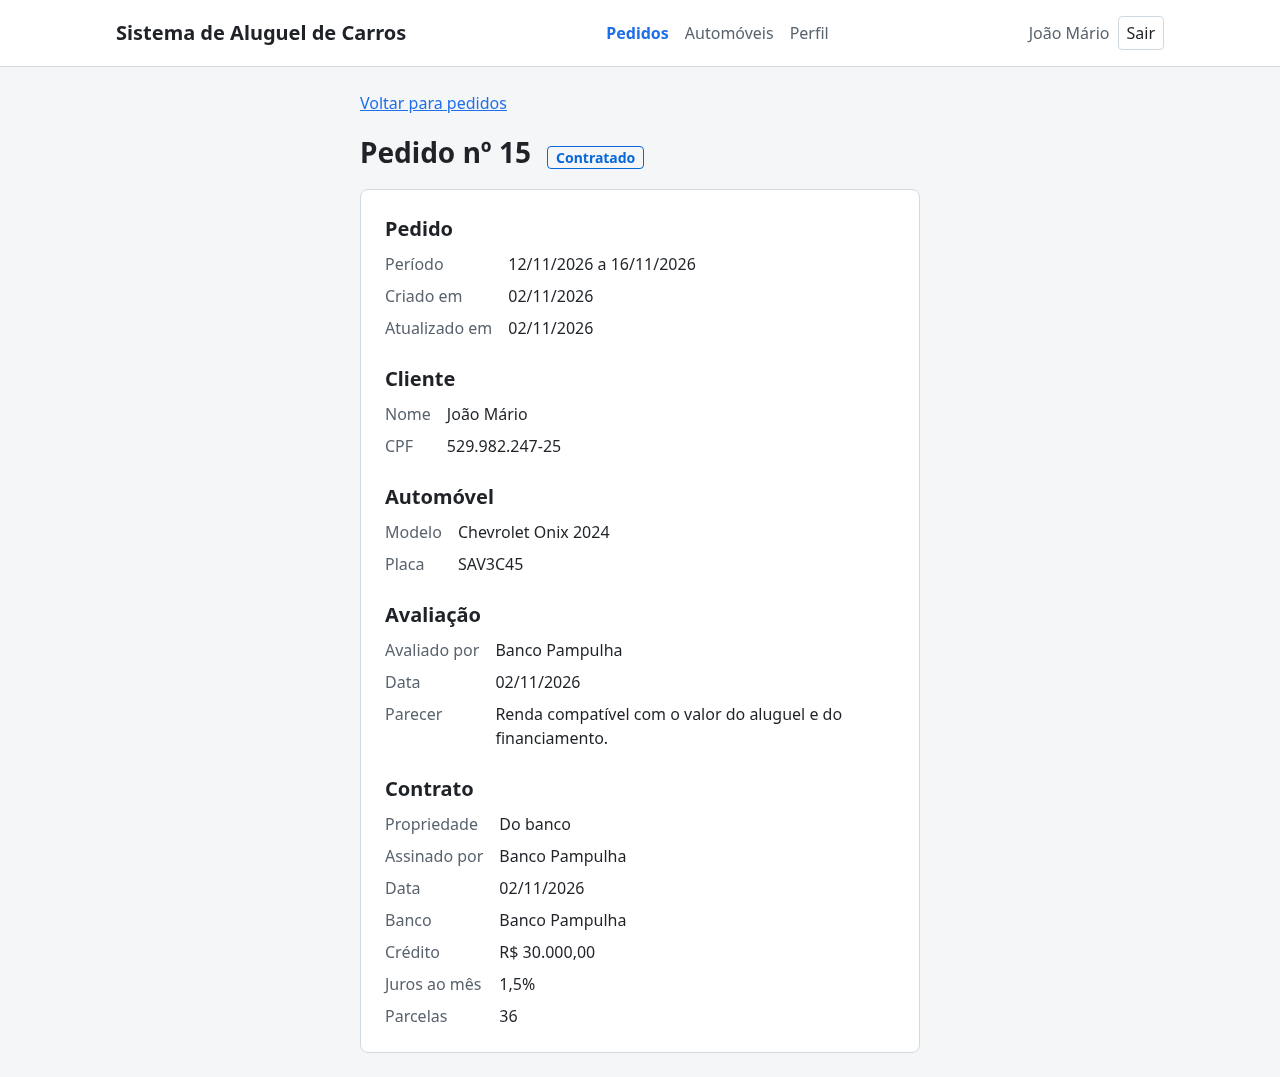
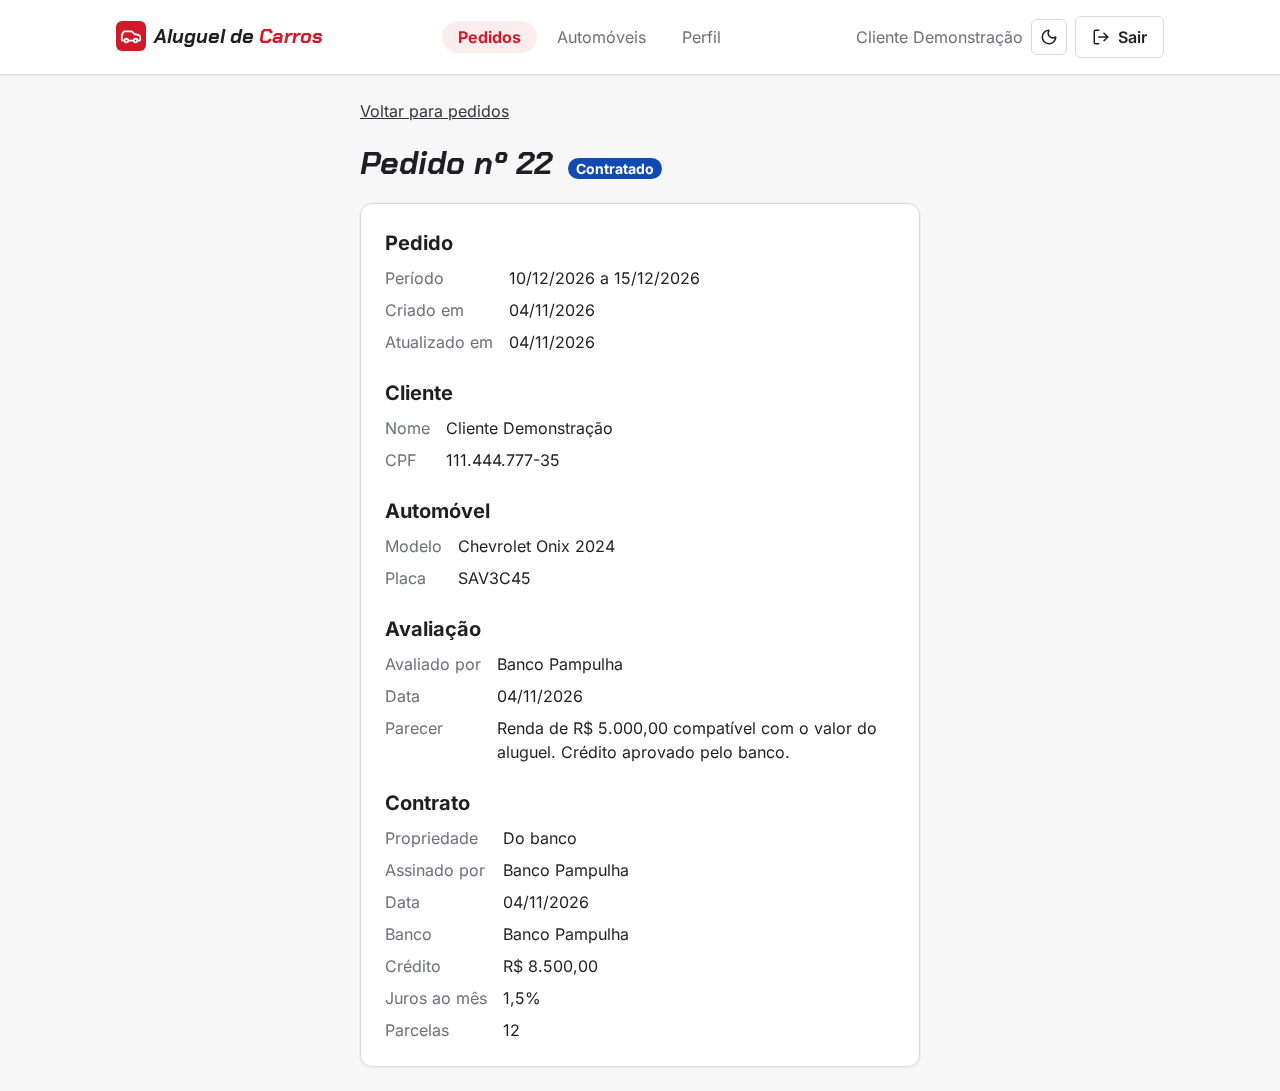
prints novas e revisão do README

diff --git a/README.md b/README.md
@@ -14,9 +14,9 @@
 
 ## 🚧 Status do Projeto
 
-[![CI](https://github.com/joaom-abreu/car-rental-system/actions/workflows/ci.yml/badge.svg)](https://github.com/joaom-abreu/car-rental-system/actions/workflows/ci.yml) [![Versão](https://img.shields.io/badge/Versão-v1.0.0-blue)](https://github.com/joaom-abreu/car-rental-system/releases) [![Licença](https://img.shields.io/github/license/joaom-abreu/car-rental-system)](#-licença)
+[![CI](https://github.com/joaom-abreu/car-rental-system/actions/workflows/ci.yml/badge.svg)](https://github.com/joaom-abreu/car-rental-system/actions/workflows/ci.yml) [![Versão](https://img.shields.io/badge/Versão-v1.0.0-d11a29)](https://github.com/joaom-abreu/car-rental-system/releases) [![Licença](https://img.shields.io/github/license/joaom-abreu/car-rental-system)](#-licença)
 
-![Java](https://img.shields.io/badge/Java-25-007ec6?style=for-the-badge&logo=openjdk&logoColor=white) ![Spring Boot](https://img.shields.io/badge/Spring_Boot-4.1.2-007ec6?style=for-the-badge&logo=springboot&logoColor=white) ![React](https://img.shields.io/badge/React-19.3-007ec6?style=for-the-badge&logo=react&logoColor=white) ![Vite](https://img.shields.io/badge/Vite-8.3-007ec6?style=for-the-badge&logo=vite&logoColor=white) ![React Router](https://img.shields.io/badge/React_Router-7.18-007ec6?style=for-the-badge&logo=reactrouter&logoColor=white) ![Supabase](https://img.shields.io/badge/Supabase-PostgreSQL-007ec6?style=for-the-badge&logo=supabase&logoColor=white) ![GitHub last commit](https://img.shields.io/github/last-commit/joaom-abreu/car-rental-system?style=for-the-badge&logo=git&logoColor=white&color=007ec6)
+![Java](https://img.shields.io/badge/Java-25-d11a29?style=for-the-badge&logo=openjdk&logoColor=white) ![Spring Boot](https://img.shields.io/badge/Spring_Boot-4.1.2-d11a29?style=for-the-badge&logo=springboot&logoColor=white) ![React](https://img.shields.io/badge/React-19.3-d11a29?style=for-the-badge&logo=react&logoColor=white) ![Vite](https://img.shields.io/badge/Vite-8.3-d11a29?style=for-the-badge&logo=vite&logoColor=white) ![React Router](https://img.shields.io/badge/React_Router-7.18-d11a29?style=for-the-badge&logo=reactrouter&logoColor=white) ![Supabase](https://img.shields.io/badge/Supabase-PostgreSQL-d11a29?style=for-the-badge&logo=supabase&logoColor=white) ![GitHub last commit](https://img.shields.io/github/last-commit/joaom-abreu/car-rental-system?style=for-the-badge&logo=git&logoColor=white&color=d11a29)
 
 ---
 
@@ -57,7 +57,7 @@ Use estas contas para testar a aplicação online. Os dados são fictícios.
 | Banco (agente) | `banco` | `aluguel2026` | O mesmo da locadora, mais a concessão de contrato de crédito |
 | Cliente | `cliente.demo` | `aluguel2026` | Criar, modificar, consultar e cancelar pedidos e editar o perfil |
 
-Também dá para criar um cliente novo na tela **Cadastre-se**.
+O `cliente.demo` já tem um pedido em cada status, e o contratado tem crédito do banco. Também dá para criar um cliente novo na tela **Cadastre-se**.
 
 > [!WARNING]
 > Estas contas são públicas. Se for se cadastrar, use dados fictícios: os agentes veem os dados de todos os clientes.
@@ -74,6 +74,8 @@ Este é o LAB02 de Desenvolvimento e Integração de Aplicações Web (DIAW), na
 O sistema só pode ser usado após cadastro e login. **Clientes** pedem o aluguel de um automóvel e acompanham o status do pedido. **Agentes** (uma locadora e um banco, já cadastrados) avaliam os pedidos e executam os contratos. Ao executar o contrato, o automóvel fica registrado como propriedade do cliente, da empresa ou do banco.
 
 A modelagem veio antes do código: histórias de usuário e diagramas de casos de uso, classes e pacotes (v1). No fim, os diagramas foram refeitos a partir do código (v2), e as diferenças estão explicadas em [`docs/uml/README.md`](./docs/uml/README.md). As classes, os atributos, os enums e os pacotes dos diagramas têm os mesmos nomes do código.
+
+Na segunda etapa, o front-end ganhou um **design system**: paleta montada a partir do círculo cromático, tema claro e escuro, tipografia, componentes reutilizáveis e regras de acessibilidade, tudo documentado na página [`/design`](https://aluguel-carros.vercel.app/design).
 
 ---
 
@@ -129,7 +131,7 @@ Os status do pedido são: **Em análise**, **Aprovado**, **Reprovado**, **Cancel
 
 O sistema segue o padrão **MVC** e é dividido em dois subsistemas, que só conversam por HTTP/JSON:
 
-- **Construção dinâmica das páginas** (`frontend/`): é a **View**. As páginas em React chamam a API só pela camada de `services`.
+- **Construção dinâmica das páginas** (`frontend/`): é a **View**. As páginas em React chamam a API só pela camada de `services`. O visual sai de componentes reutilizáveis (`Button`, `Field`, `Card`, `Alert`, `StatusBadge`, `Logo`), que usam só os tokens de `styles/tokens.css`.
 - **Gestão de pedidos e contratos** (`backend/`): os **Controllers** recebem as requisições e devolvem DTOs, os **Services** aplicam as regras de negócio e a checagem de dono e de perfil, e o **Model** (entidades e repositórios) guarda os dados no Supabase. As regras de mudança de status ficam nos métodos da própria entidade `RentalRequest` (`approve`, `reject`, `cancel`, `markAsContracted`).
 
 O navegador nunca acessa o banco: só o back-end fala com o Supabase.
@@ -280,14 +282,14 @@ Depois do primeiro deploy na Vercel, coloque a URL dela em `CORS_ALLOWED_ORIGINS
     ├── vercel.json                 # 🔀 Rotas do React na Vercel.
     └── src/
         ├── pages/                  # 📄 Telas.
-        ├── components/             # 🧩 Formulários, tabelas e peças reutilizáveis.
-        ├── services/               # 🔌 Chamadas à API (o único lugar com fetch).
+        ├── components/             # 🧩 Button, Field, Card, Logo, formulários e outras peças reutilizáveis.
+        ├── services/               # 🔌 Chamadas à API (o único lugar com fetch) e o que fica salvo no navegador.
         ├── contexts/               # 👤 Sessão do usuário.
-        ├── hooks/                  # 🪝 useAuth.
-        ├── constants/              # 🏷 Rótulos de status e de propriedade.
-        ├── utils/                  # 🧮 Formatação de datas, CPF, moeda e porcentagem.
+        ├── hooks/                  # 🪝 useAuth e useTheme.
+        ├── constants/              # 🏷 Rótulos de status e de propriedade, temas e dados do design system.
+        ├── utils/                  # 🧮 Formatação e máscara de datas, CPF, moeda e porcentagem, e leitura de tokens.
         ├── config/                 # ⚙ Endereço da API.
-        └── styles/                 # 🎨 Tokens e estilos globais.
+        └── styles/                 # 🎨 Tokens (cores, fontes e medidas dos dois temas) e estilos globais.
 ```
 
 ---
@@ -304,7 +306,11 @@ Depois do primeiro deploy na Vercel, coloque a URL dela em `CORS_ALLOWED_ORIGINS
 
 | Clientes (visão do agente) | Automóveis (visão do agente) |
 | :---: | :---: |
-| <img src="./docs/screenshots/clientes.png" alt="Lista de clientes com busca por nome ou CPF" width="420"> | <img src="./docs/screenshots/automoveis.png" alt="Lista de automóveis com o proprietário de cada um" width="420"> |
+| <img src="./docs/screenshots/clientes.png" alt="Lista de clientes com busca por nome ou CPF" width="420"> | <img src="./docs/screenshots/automoveis.png" alt="Lista de automóveis com o proprietário de cada um, com o Onix já do Banco Pampulha" width="420"> |
+
+| Tema escuro (visão do agente) | Design system |
+| :---: | :---: |
+| <img src="./docs/screenshots/pedidos-escuro.png" alt="Lista de todos os pedidos no tema escuro, vista pelo banco" width="420"> | <img src="./docs/screenshots/design-system.png" alt="Início da página de design system, com a logo nos temas claro e escuro" width="420"> |
 
 | Swagger |
 | :---: |
@@ -383,6 +389,9 @@ O **GitHub Actions** roda os testes do back-end e o lint e o build do front-end 
 - [React](https://react.dev/)
 - [React Router](https://reactrouter.com/)
 - [Vite](https://vite.dev/)
+- [Lucide](https://lucide.dev/guide/packages/lucide-react)
+- [Google Fonts](https://fonts.google.com/)
+- [WCAG 2.1: contraste mínimo](https://www.w3.org/WAI/WCAG21/Understanding/contrast-minimum.html)
 - [Supabase](https://supabase.com/docs)
 - [PlantUML](https://plantuml.com/)
 - [GitHub Actions](https://docs.github.com/actions)
